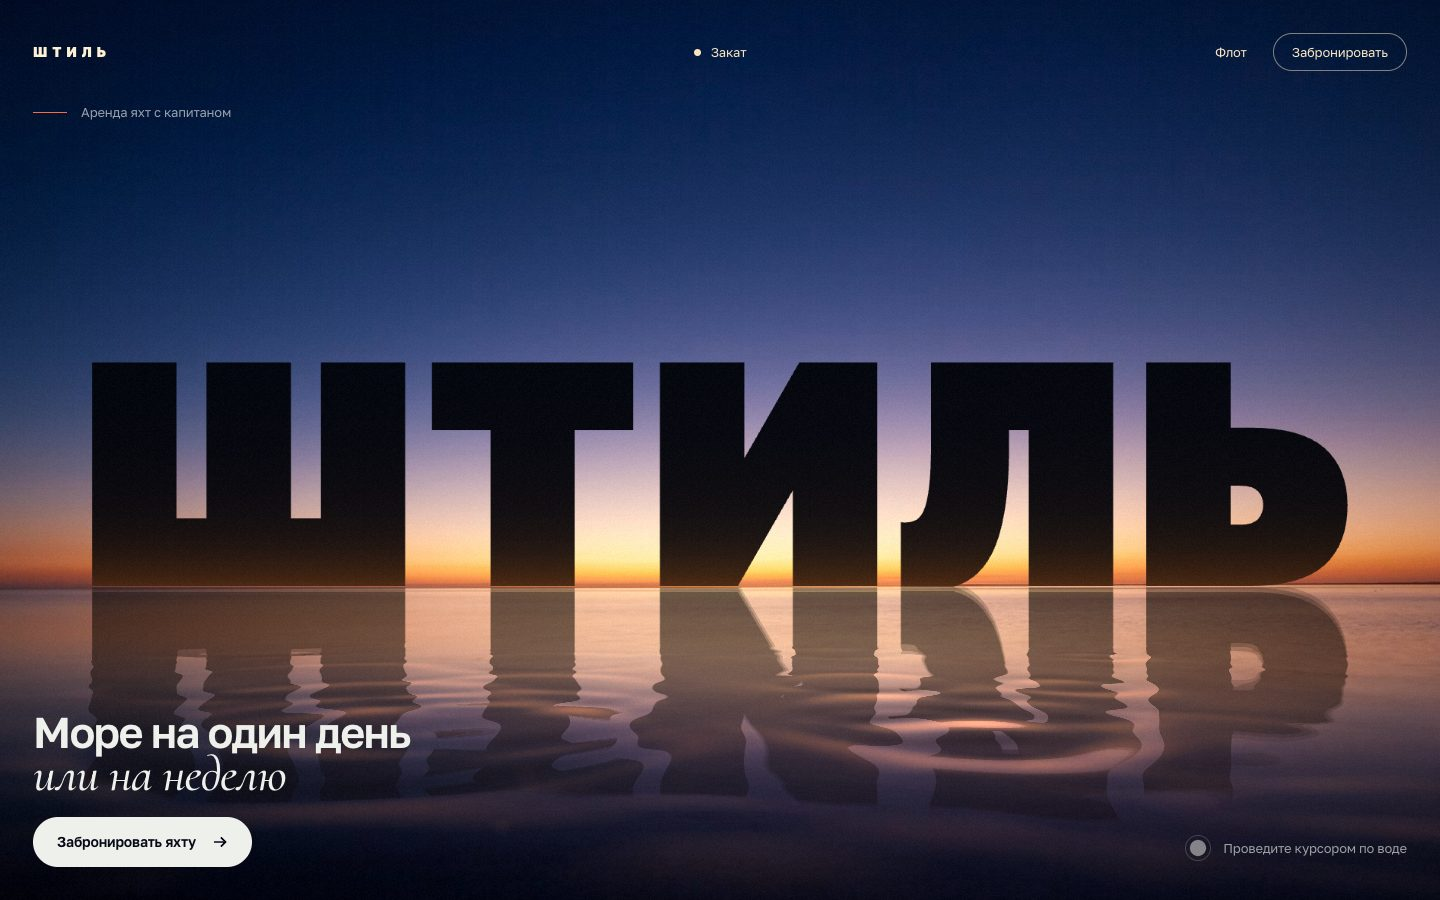
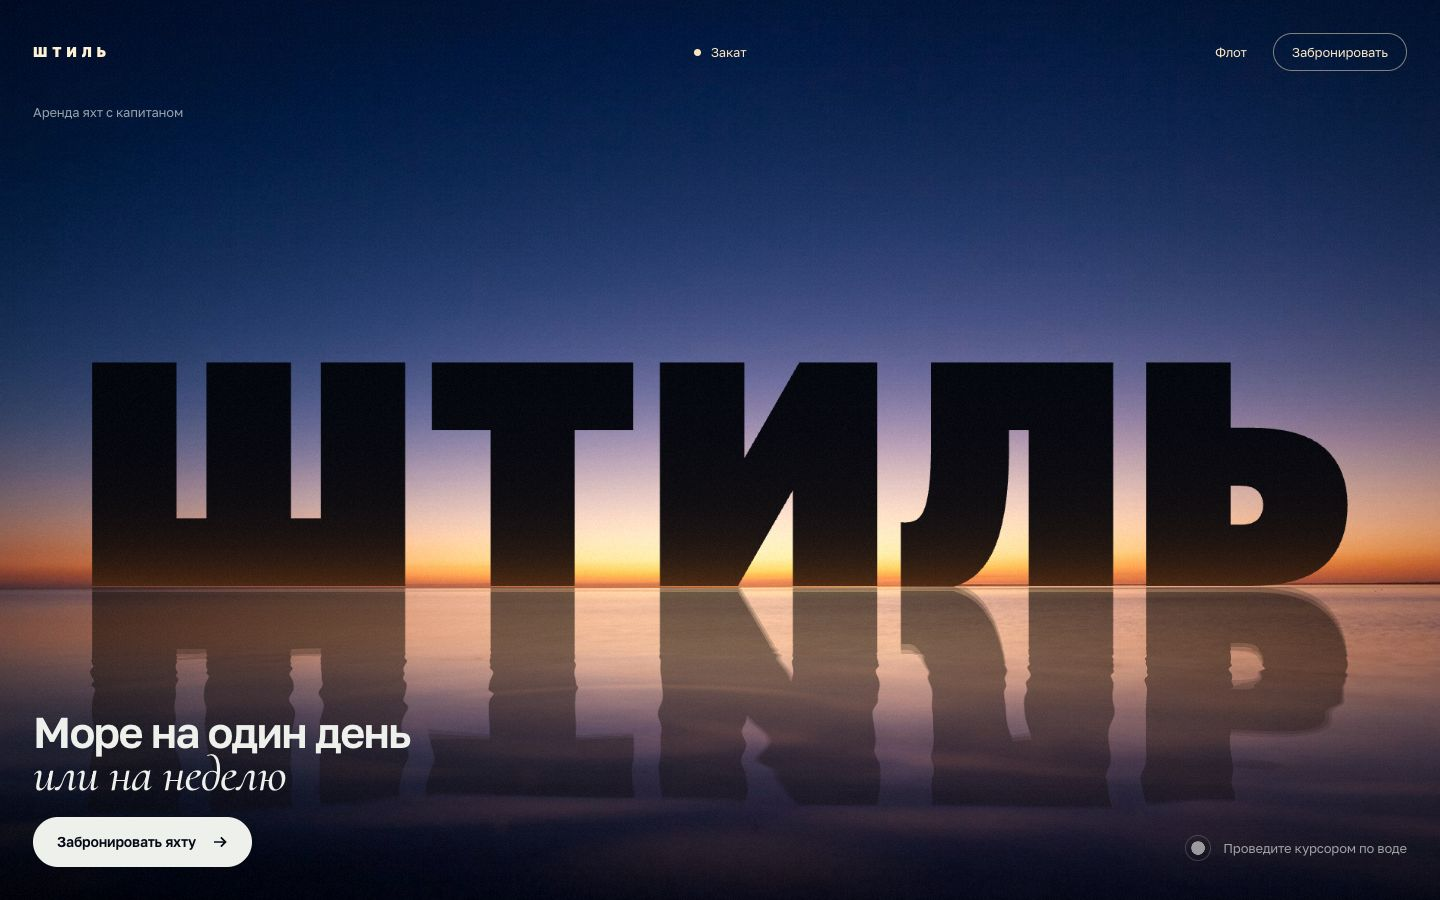
Убрана декоративная чёрточка у подписей, обновлены кадры

diff --git a/index.html b/index.html
@@ -49,7 +49,6 @@ main{position:relative;z-index:1}
 .h1{position:absolute;left:0;right:0;text-align:center;font-weight:900;text-transform:uppercase;line-height:.72;letter-spacing:.02em;color:#070b18;font-size:calc(var(--cap)*1.39);top:calc(var(--hor) - var(--cap));height:var(--cap);overflow:hidden}
 body:not(.nogl) .h1{color:transparent;pointer-events:none}
 .hero-meta{position:absolute;left:var(--pad);top:calc(var(--pad)*2 + 38px);display:flex;gap:14px;align-items:center;font-size:13px;color:var(--mut)}
-.hero-meta::before{content:"";width:34px;height:1px;background:var(--sig)}
 .hero-b{position:absolute;left:var(--pad);right:var(--pad);bottom:var(--pad);display:flex;justify-content:space-between;align-items:flex-end;gap:28px}
 .hero-l{max-width:520px}
 .hero-l h2{font-weight:600;font-size:clamp(26px,3vw,46px);line-height:.98;letter-spacing:-.04em;margin-bottom:22px}
@@ -75,7 +74,6 @@ body:not(.nogl) .h1{color:transparent;pointer-events:none}
 .cloud figcaption b{color:var(--sig);font-weight:500;margin-right:8px}
 .say-w{position:relative;z-index:2;width:min(980px,86vw);text-align:center}
 .lbl{display:inline-flex;gap:12px;align-items:center;font-size:13px;color:var(--mut);margin-bottom:clamp(18px,2.4vw,34px)}
-.lbl::before{content:"";width:34px;height:1px;background:var(--sig)}
 .say{font-weight:600;font-size:clamp(30px,4.7vw,78px);line-height:1.0;letter-spacing:-.045em;text-wrap:balance}
 .say .w{display:inline-block;opacity:.14;white-space:pre}
 .say .w.em{font-family:'Cormorant Garamond',Georgia,serif;font-style:italic;font-weight:500;letter-spacing:-.02em;font-size:1.12em;line-height:.85}
